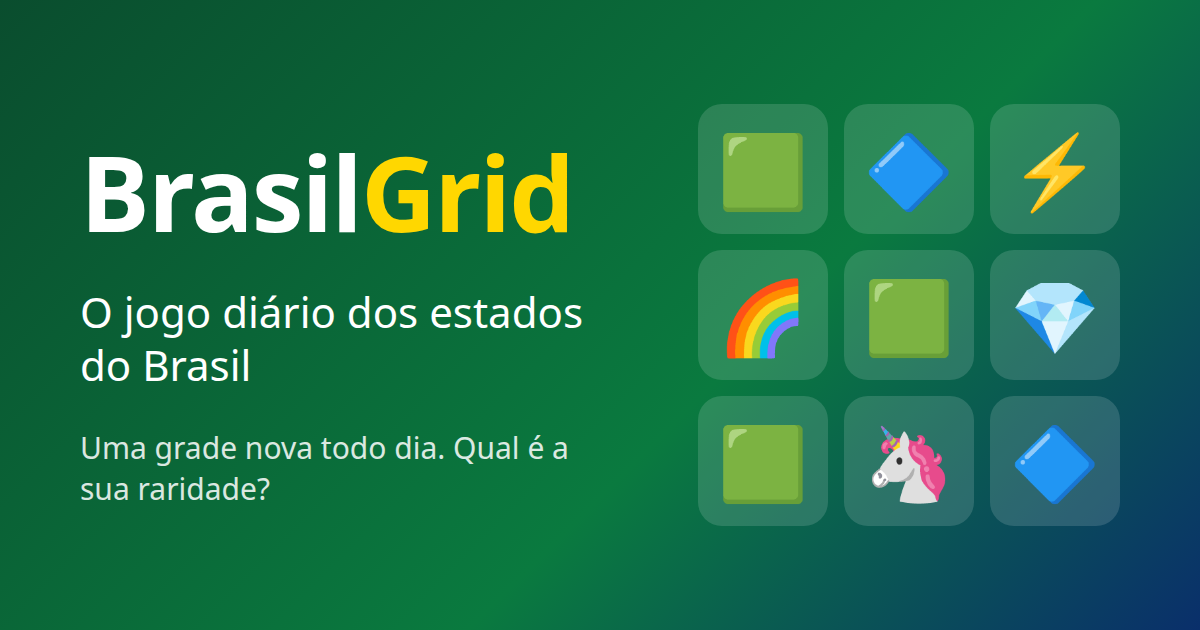
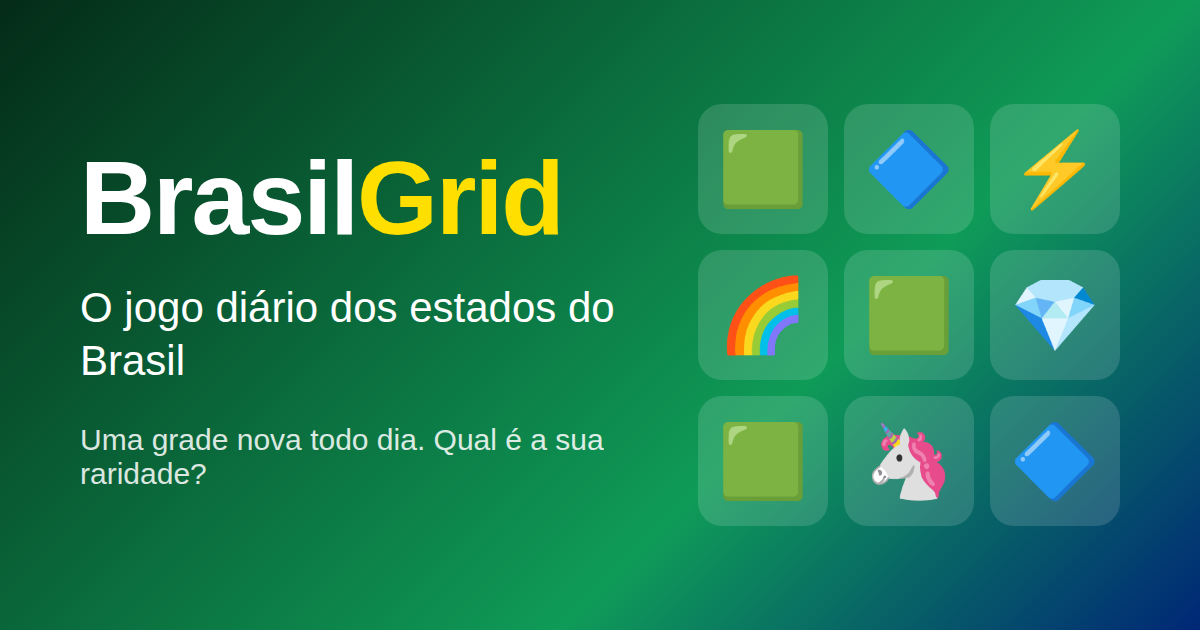
Identidade visual: fonte Fredoka, cores da bandeira e corrige menu ilegível
- corrige o bug real: <select>/<input> com bg-transparent, combinado com
  color-scheme: light dark no :root, deixava o navegador aplicar cores
  nativas conforme o tema do sistema — texto cinza-claro sobre fundo
  branco em vários casos. Agora todo formulário tem fundo opaco explícito.
- fonte Fredoka (Google Fonts) em vez da fonte padrão do sistema
- fundo da página em verde (perto do da bandeira), conteúdo num cartão
  branco por cima — cheio no celular, flutuando com margem a partir de
  telas maiores; cabeçalho verde com "Grid" em amarelo
- botões de ação principal (entrar, salvar, compartilhar, enviar aviso)
  passam de verde para azul da bandeira; verde fica reservado para
  "acerto"/identidade da marca, evitando um único tom pra tudo
- foco por teclado em amarelo sobre qualquer fundo (funciona tanto no
  cabeçalho verde quanto no cartão branco)
- favicon e imagem de prévia (og.png) atualizados com a paleta nova

diff --git a/src/App.tsx b/src/App.tsx
@@ -17,16 +17,18 @@ import { Terms } from './pages/Terms.tsx'
 const ReviewPuzzles = import.meta.env.DEV ? lazy(() => import('./pages/dev/ReviewPuzzles.tsx')) : null
 
 const navClass = ({ isActive }: { isActive: boolean }) =>
-  `rounded-md px-2 py-1 text-sm hover:bg-slate-100 dark:hover:bg-slate-800 ${isActive ? 'font-semibold' : ''}`
+  `rounded-md px-2 py-1.5 text-sm font-medium text-white/90 transition hover:bg-white/15 hover:text-white ${
+    isActive ? 'text-brand-yellow' : ''
+  }`
 
 function Header() {
   const { data: session } = authClient.useSession()
   const loggedIn = session && !session.user.isAnonymous
   return (
-    <header className="border-b border-slate-200 dark:border-slate-800">
-      <nav className="mx-auto flex max-w-xl items-center justify-between gap-2 px-4 py-3">
-        <Link to="/" className="text-lg font-bold">
-          Brasil<span className="text-brand-green">Grid</span>
+    <header className="sticky top-0 z-10 bg-brand-green shadow-md">
+      <nav className="mx-auto flex max-w-2xl items-center justify-between gap-2 px-4 py-3 sm:px-6">
+        <Link to="/" className="text-xl font-semibold tracking-wide text-white">
+          Brasil<span className="text-brand-yellow">Grid</span>
         </Link>
         <div className="flex items-center gap-1">
           <NavLink to="/como-jogar" className={navClass}>
@@ -54,38 +56,40 @@ export function App() {
   return (
     <BrowserRouter>
       <Header />
-      <main className="mx-auto max-w-xl px-4 py-6">
-        <Routes>
-          <Route path="/" element={<Home />} />
-          <Route path="/como-jogar" element={<HowToPlay />} />
-          <Route path="/estatisticas" element={<Stats />} />
-          <Route path="/entrar" element={<Login />} />
-          <Route path="/perfil" element={<Profile />} />
-          <Route path="/r/:shareId" element={<SharedResultPage />} />
-          <Route path="/fontes" element={<Sources />} />
-          <Route path="/privacidade" element={<Privacy />} />
-          <Route path="/termos" element={<Terms />} />
-          {ReviewPuzzles && (
-            <Route
-              path="/dev/grades"
-              element={
-                <Suspense fallback={<p>Carregando…</p>}>
-                  <ReviewPuzzles />
-                </Suspense>
-              }
-            />
-          )}
-          <Route path="*" element={<NotFound />} />
-        </Routes>
-      </main>
-      <footer className="mx-auto flex max-w-xl justify-center gap-4 px-4 pb-8 text-xs text-slate-500">
-        <Link to="/fontes" className="underline">
+      <div className="page-card">
+        <main className="mx-auto max-w-2xl px-4 py-6 sm:px-6">
+          <Routes>
+            <Route path="/" element={<Home />} />
+            <Route path="/como-jogar" element={<HowToPlay />} />
+            <Route path="/estatisticas" element={<Stats />} />
+            <Route path="/entrar" element={<Login />} />
+            <Route path="/perfil" element={<Profile />} />
+            <Route path="/r/:shareId" element={<SharedResultPage />} />
+            <Route path="/fontes" element={<Sources />} />
+            <Route path="/privacidade" element={<Privacy />} />
+            <Route path="/termos" element={<Terms />} />
+            {ReviewPuzzles && (
+              <Route
+                path="/dev/grades"
+                element={
+                  <Suspense fallback={<p>Carregando…</p>}>
+                    <ReviewPuzzles />
+                  </Suspense>
+                }
+              />
+            )}
+            <Route path="*" element={<NotFound />} />
+          </Routes>
+        </main>
+      </div>
+      <footer className="mx-auto flex max-w-2xl justify-center gap-4 px-4 py-6 text-xs text-white/70">
+        <Link to="/fontes" className="underline decoration-white/40 hover:text-white">
           Fontes e créditos
         </Link>
-        <Link to="/privacidade" className="underline">
+        <Link to="/privacidade" className="underline decoration-white/40 hover:text-white">
           Privacidade
         </Link>
-        <Link to="/termos" className="underline">
+        <Link to="/termos" className="underline decoration-white/40 hover:text-white">
           Termos
         </Link>
       </footer>

diff --git a/src/components/ReportDialog.tsx b/src/components/ReportDialog.tsx
@@ -47,7 +47,7 @@ export function ReportDialog({ puzzleId, rows, cols, cells, initialCell, onClose
         <div className="space-y-3">
           <h2 className="text-lg font-bold">Obrigado!</h2>
           <p className="text-sm">Vamos conferir. Se o gabarito estiver errado, ele é corrigido para as próximas grades.</p>
-          <button type="button" onClick={() => dialog.current?.close()} className="rounded-lg bg-brand-green px-4 py-2 text-white">
+          <button type="button" onClick={() => dialog.current?.close()} className="rounded-lg bg-brand-blue px-4 py-2 text-white">
             Fechar
           </button>
         </div>
@@ -59,7 +59,7 @@ export function ReportDialog({ puzzleId, rows, cols, cells, initialCell, onClose
             <select
               value={cell ?? ''}
               onChange={(e) => setCell(e.target.value === '' ? null : Number(e.target.value))}
-              className="mt-1 w-full rounded-lg border border-slate-300 bg-transparent px-2 py-2 font-normal dark:border-slate-600"
+              className="mt-1 w-full rounded-lg border border-slate-300 bg-white text-slate-900 dark:bg-slate-800 dark:text-slate-100 px-2 py-2 font-normal dark:border-slate-600"
             >
               <option value="">A grade toda</option>
               {cells.map(({ cell: i }) => (
@@ -74,7 +74,7 @@ export function ReportDialog({ puzzleId, rows, cols, cells, initialCell, onClose
             <select
               value={uf}
               onChange={(e) => setUf(e.target.value)}
-              className="mt-1 w-full rounded-lg border border-slate-300 bg-transparent px-2 py-2 font-normal dark:border-slate-600"
+              className="mt-1 w-full rounded-lg border border-slate-300 bg-white text-slate-900 dark:bg-slate-800 dark:text-slate-100 px-2 py-2 font-normal dark:border-slate-600"
             >
               <option value="">—</option>
               {UFS.map((u) => (
@@ -95,7 +95,7 @@ export function ReportDialog({ puzzleId, rows, cols, cells, initialCell, onClose
               value={message}
               onChange={(e) => setMessage(e.target.value)}
               placeholder="Ex.: esta UF também atende às duas categorias porque…"
-              className="mt-1 w-full rounded-lg border border-slate-300 bg-transparent px-3 py-2 font-normal dark:border-slate-600"
+              className="mt-1 w-full rounded-lg border border-slate-300 bg-white text-slate-900 dark:bg-slate-800 dark:text-slate-100 px-3 py-2 font-normal dark:border-slate-600"
             />
           </label>
           {error && (
@@ -107,7 +107,7 @@ export function ReportDialog({ puzzleId, rows, cols, cells, initialCell, onClose
             <button type="button" onClick={() => dialog.current?.close()} className="rounded-lg px-3 py-2 text-sm">
               Cancelar
             </button>
-            <button disabled={state === 'sending'} className="rounded-lg bg-brand-green px-4 py-2 text-sm font-semibold text-white disabled:opacity-50">
+            <button disabled={state === 'sending'} className="rounded-lg bg-brand-blue px-4 py-2 text-sm font-semibold text-white disabled:opacity-50">
               {state === 'sending' ? 'Enviando…' : 'Enviar'}
             </button>
           </div>

diff --git a/src/pages/Login.tsx b/src/pages/Login.tsx
@@ -96,10 +96,10 @@ export function Login() {
               autoComplete="email"
               value={email}
               onChange={(e) => setEmail(e.target.value)}
-              className="mt-1 w-full rounded-lg border border-slate-300 bg-transparent px-3 py-2 font-normal dark:border-slate-600"
+              className="mt-1 w-full rounded-lg border border-slate-300 bg-white text-slate-900 dark:bg-slate-800 dark:text-slate-100 px-3 py-2 font-normal dark:border-slate-600"
             />
           </label>
-          <button disabled={busy} className="w-full rounded-lg bg-brand-green px-4 py-2.5 font-semibold text-white disabled:opacity-50">
+          <button disabled={busy} className="w-full rounded-lg bg-brand-blue px-4 py-2.5 font-semibold text-white disabled:opacity-50">
             {busy ? 'Enviando…' : 'Receber código por e-mail'}
           </button>
         </form>
@@ -118,10 +118,10 @@ export function Login() {
               required
               value={code}
               onChange={(e) => setCode(e.target.value.replace(/\D/g, ''))}
-              className="mt-1 w-full rounded-lg border border-slate-300 bg-transparent px-3 py-2 text-center font-mono text-2xl tracking-[0.4em] dark:border-slate-600"
+              className="mt-1 w-full rounded-lg border border-slate-300 bg-white text-slate-900 dark:bg-slate-800 dark:text-slate-100 px-3 py-2 text-center font-mono text-2xl tracking-[0.4em] dark:border-slate-600"
             />
           </label>
-          <button disabled={busy} className="w-full rounded-lg bg-brand-green px-4 py-2.5 font-semibold text-white disabled:opacity-50">
+          <button disabled={busy} className="w-full rounded-lg bg-brand-blue px-4 py-2.5 font-semibold text-white disabled:opacity-50">
             {busy ? 'Entrando…' : 'Entrar'}
           </button>
           <button type="button" onClick={() => setStep('email')} className="w-full text-sm text-slate-500 underline">

diff --git a/src/index.css b/src/index.css
@@ -1,24 +1,49 @@
 @import "tailwindcss";
 
 @theme {
-  --color-brand-green: #0a7a3f;
-  --color-brand-yellow: #f5c518;
-  --color-brand-blue: #0a2f6b;
+  --font-sans: 'Fredoka', ui-sans-serif, system-ui, sans-serif;
+
+  /* Paleta da bandeira: verde de fundo, detalhes em azul, amarelo e branco. */
+  --color-brand-green: #0f9b58;
+  --color-brand-green-deep: #076b3a;
+  --color-brand-blue: #002776;
+  --color-brand-yellow: #ffdf00;
 }
 
 :root {
   color-scheme: light dark;
 }
 
-body {
-  @apply min-h-dvh bg-white text-slate-900 antialiased dark:bg-slate-950 dark:text-slate-100;
+@media (prefers-color-scheme: dark) {
+  :root {
+    --color-brand-green-deep: #042b17;
+    --color-brand-blue: #4d78e0;
+    --color-brand-yellow: #ffe14d;
+  }
 }
 
-/* Foco visível e consistente entre navegadores, em qualquer elemento interativo. */
+body {
+  @apply min-h-dvh font-sans antialiased;
+  background: var(--color-brand-green-deep);
+}
+
+/* O conteúdo mora num "cartão" branco por cima do verde — cheio no celular,
+   flutuando com espaço ao redor a partir de telas maiores. */
+.page-card {
+  @apply bg-white text-slate-900 dark:bg-slate-950 dark:text-slate-100;
+}
+@media (min-width: 640px) {
+  .page-card {
+    @apply mx-auto my-6 max-w-2xl rounded-3xl shadow-xl;
+  }
+}
+
+/* Foco visível e consistente entre navegadores: amarelo sobre qualquer fundo. */
 :focus-visible {
-  outline: 2px solid var(--color-brand-green);
+  outline: 3px solid var(--color-brand-yellow);
   outline-offset: 2px;
   border-radius: 2px;
+  box-shadow: 0 0 0 1px rgba(0, 0, 0, 0.25);
 }
 
 @theme {

diff --git a/src/pages/Profile.tsx b/src/pages/Profile.tsx
@@ -79,7 +79,7 @@ export function Profile() {
             onChange={(e) => setNickname(e.target.value)}
             maxLength={20}
             placeholder="Como você aparece no ranking"
-            className="mt-1 w-full rounded-lg border border-slate-300 bg-transparent px-3 py-2 font-normal dark:border-slate-600"
+            className="mt-1 w-full rounded-lg border border-slate-300 bg-white text-slate-900 dark:bg-slate-800 dark:text-slate-100 px-3 py-2 font-normal dark:border-slate-600"
           />
         </label>
         <label className="flex items-start gap-2 text-sm">
@@ -94,7 +94,7 @@ export function Profile() {
             <span className="block text-xs text-slate-500">O ranking chega em breve. Nome e e-mail nunca são mostrados.</span>
           </span>
         </label>
-        <button className="rounded-lg bg-brand-green px-4 py-2 font-semibold text-white">Salvar</button>
+        <button className="rounded-lg bg-brand-blue px-4 py-2 font-semibold text-white">Salvar</button>
         {message && (
           <p role="status" className={message.ok ? 'text-sm text-brand-green' : 'text-sm text-red-600'}>
             {message.text}

diff --git a/scripts/build-og-image.ts b/scripts/build-og-image.ts
@@ -5,9 +5,9 @@ import { ROOT } from './lib/io.ts'
 const cells = ['🟩', '🔷', '⚡', '🌈', '🟩', '💎', '🟩', '🦄', '🔷']
 const html = `<!doctype html><html><body style="margin:0">
 <div style="width:1200px;height:630px;box-sizing:border-box;padding:70px 80px;display:flex;align-items:center;gap:80px;
-  background:linear-gradient(135deg,#0a4d2e,#0a7a3f 60%,#0a2f6b);font-family:system-ui,sans-serif;color:white">
+  background:linear-gradient(135deg,#042b17,#0f9b58 65%,#002776);font-family:'Fredoka',sans-serif;color:white">
   <div style="flex:1">
-    <div style="font-size:104px;font-weight:900;letter-spacing:-2px">Brasil<span style="color:#ffd700">Grid</span></div>
+    <div style="font-size:104px;font-weight:900;letter-spacing:-2px">Brasil<span style="color:#ffdf00">Grid</span></div>
     <div style="font-size:42px;margin-top:24px;line-height:1.25">O jogo diário dos estados do Brasil</div>
     <div style="font-size:30px;margin-top:36px;opacity:.85">Uma grade nova todo dia. Qual é a sua raridade?</div>
   </div>

diff --git a/src/components/ResultsPanel.tsx b/src/components/ResultsPanel.tsx
@@ -102,7 +102,7 @@ export function ResultsPanel({ puzzleId, rows, cols, game }: Props) {
                   onClick={() => setTab(id)}
                   className={[
                     'rounded-full px-3 py-1 text-xs',
-                    tab === id ? 'bg-brand-green text-white' : 'bg-slate-100 dark:bg-slate-800',
+                    tab === id ? 'bg-brand-blue text-white' : 'bg-slate-100 dark:bg-slate-800',
                   ].join(' ')}
                 >
                   {label}
@@ -126,7 +126,7 @@ export function ResultsPanel({ puzzleId, rows, cols, game }: Props) {
                         className={[
                           'h-full w-full rounded-lg p-2 text-left text-xs',
                           mapCell === cell
-                            ? 'bg-emerald-50 ring-2 ring-brand-green dark:bg-emerald-950'
+                            ? 'bg-sky-50 ring-2 ring-brand-blue dark:bg-sky-950'
                             : 'bg-slate-50 dark:bg-slate-900',
                         ].join(' ')}
                       >

diff --git a/index.html b/index.html
@@ -4,6 +4,12 @@
     <meta charset="UTF-8" />
     <link rel="icon" type="image/svg+xml" href="/favicon.svg" />
     <meta name="viewport" content="width=device-width, initial-scale=1.0" />
+    <link rel="preconnect" href="https://fonts.googleapis.com" />
+    <link rel="preconnect" href="https://fonts.gstatic.com" crossorigin />
+    <link
+      href="https://fonts.googleapis.com/css2?family=Fredoka:wght@400;500;600;700&display=swap"
+      rel="stylesheet"
+    />
     <meta
       name="description"
       content="BrasilGrid — jogo diário de geografia do Brasil. Preencha a grade 3×3 com estados que combinem com as categorias de cada linha e coluna."

diff --git a/src/components/SearchDialog.tsx b/src/components/SearchDialog.tsx
@@ -48,7 +48,7 @@ export function SearchDialog({ title, usedUfs, wrongHere, onPick, onClose }: Pro
           }}
           placeholder="Digite o nome ou a sigla"
           aria-label="Buscar UF"
-          className="mt-2 w-full rounded-lg border border-slate-300 bg-transparent px-3 py-2 outline-none focus:border-brand-green dark:border-slate-600"
+          className="mt-2 w-full rounded-lg border border-slate-300 bg-white text-slate-900 dark:bg-slate-800 dark:text-slate-100 px-3 py-2 outline-none focus:border-brand-green dark:border-slate-600"
         />
       </div>
       {normalizeSearch(query).length < MIN_QUERY_LENGTH ? (

diff --git a/src/pages/NotFound.tsx b/src/pages/NotFound.tsx
@@ -8,7 +8,7 @@ export function NotFound({ message = 'Esta página não existe.' }: { message?: 
       </p>
       <h1 className="text-2xl font-bold">Nada por aqui</h1>
       <p className="text-slate-500">{message}</p>
-      <Link to="/" className="inline-block rounded-lg bg-brand-green px-4 py-2 font-semibold text-white">
+      <Link to="/" className="inline-block rounded-lg bg-brand-blue px-4 py-2 font-semibold text-white">
         Jogar a grade de hoje
       </Link>
     </section>

diff --git a/src/pages/SharedResultPage.tsx b/src/pages/SharedResultPage.tsx
@@ -52,7 +52,7 @@ export function SharedResultPage() {
         As respostas ficam escondidas para não estragar o jogo de ninguém.
       </p>
       <div className="text-center">
-        <Link to="/" className="inline-block rounded-lg bg-brand-green px-5 py-3 font-semibold text-white">
+        <Link to="/" className="inline-block rounded-lg bg-brand-blue px-5 py-3 font-semibold text-white">
           Jogar a grade de hoje
         </Link>
       </div>

diff --git a/src/components/ShareButtons.tsx b/src/components/ShareButtons.tsx
@@ -27,7 +27,7 @@ export function ShareButtons({ text }: { text: string }) {
           <button
             type="button"
             onClick={() => navigator.share({ text }).catch(() => {})}
-            className="rounded-lg bg-brand-green px-3 py-2 text-sm font-semibold text-white"
+            className="rounded-lg bg-brand-blue px-3 py-2 text-sm font-semibold text-white"
           >
             Compartilhar
           </button>
